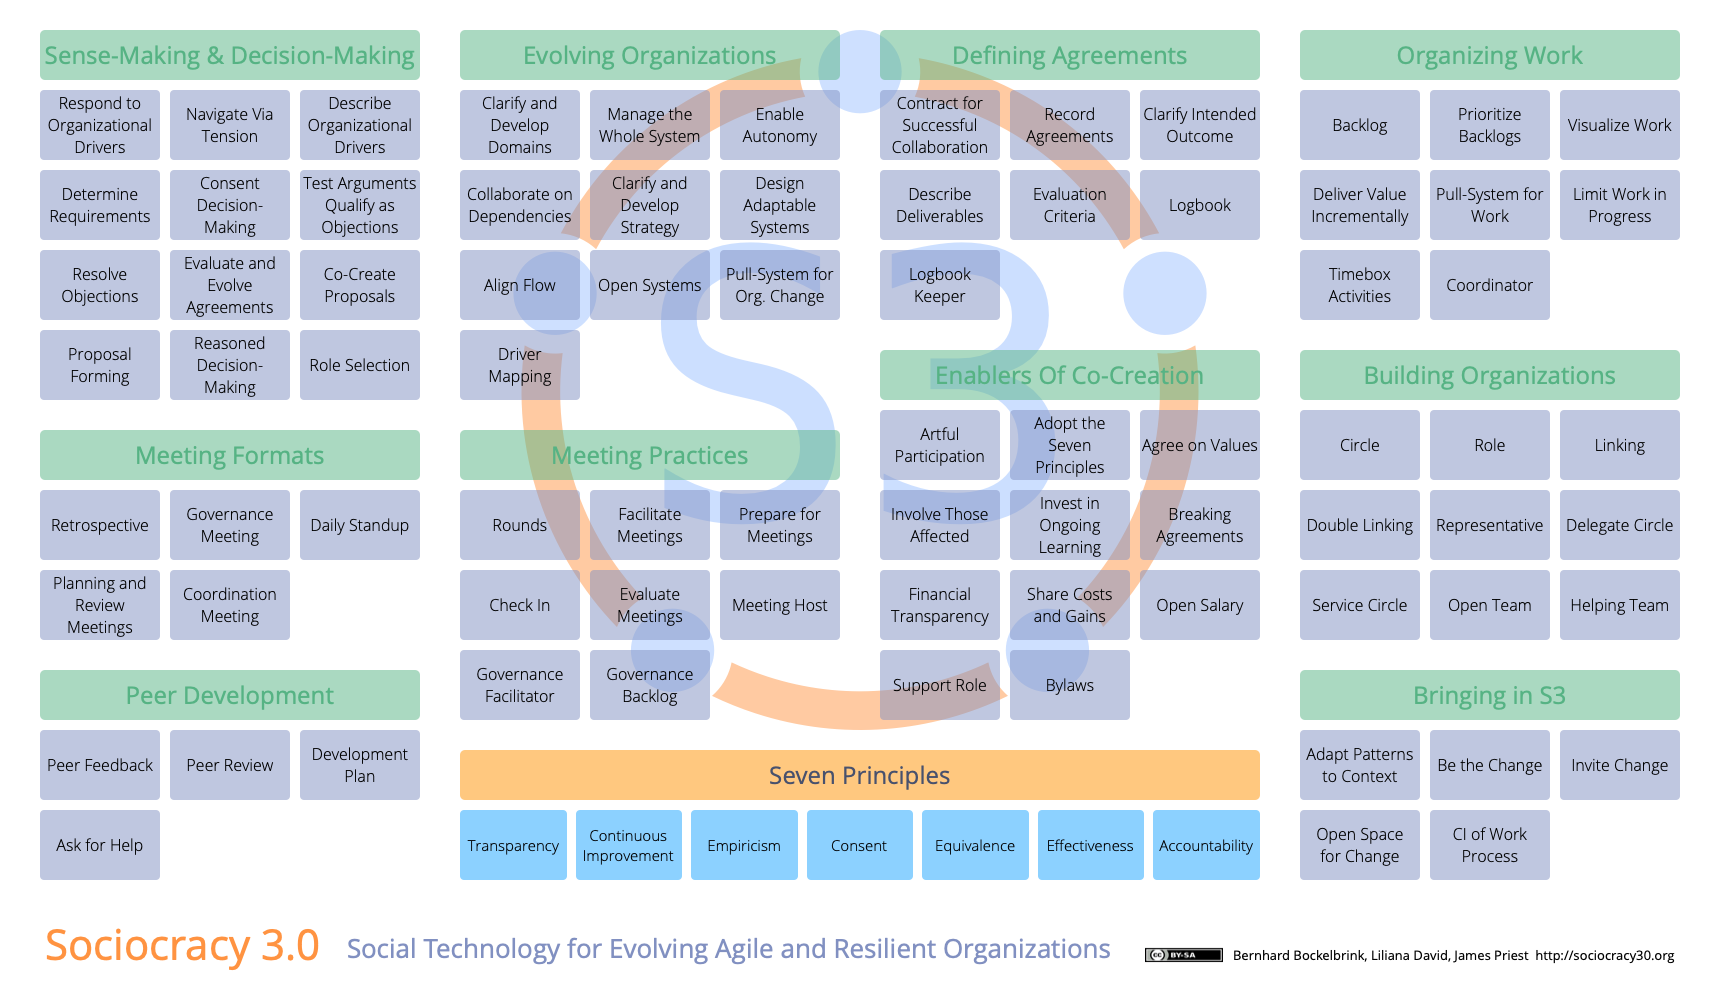
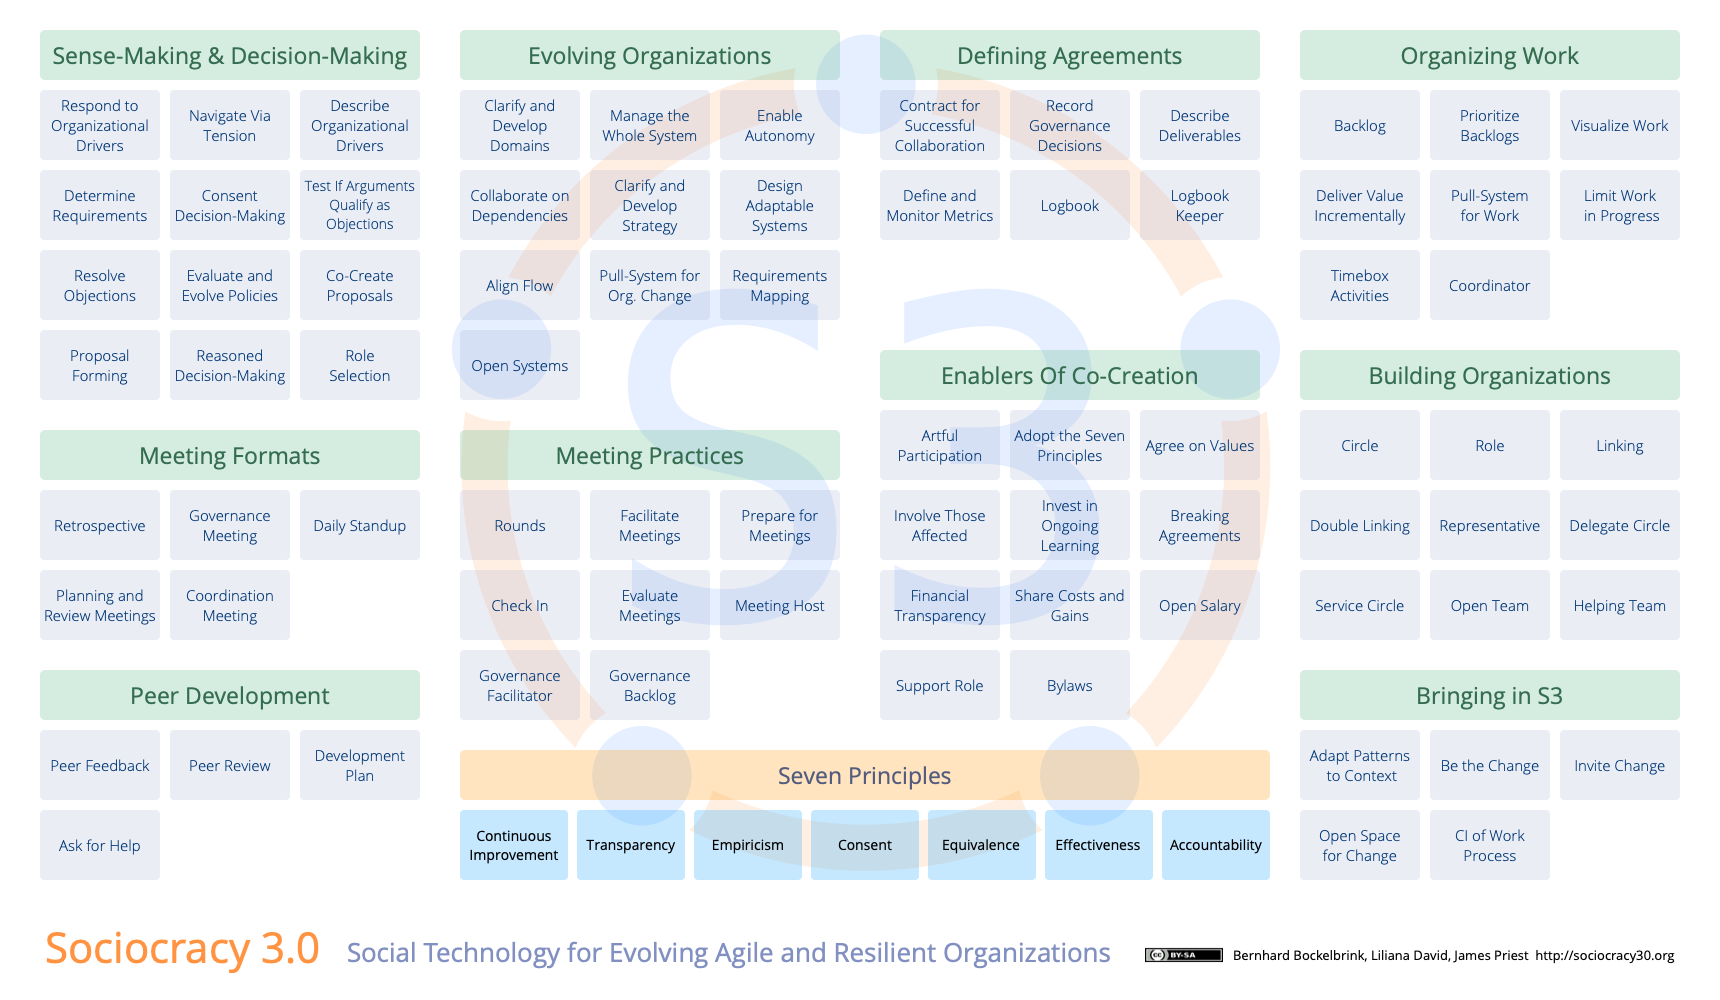
update pattern map

diff --git a/templates/website/pattern-map.html b/templates/website/pattern-map.html
@@ -5,35 +5,27 @@
 	<area shape=rect coords="590,90,710,160" href="https://${microsite_cname}/manage-the-whole-system.html">
 	<area shape=rect coords="460,30,840,80" href="https://${microsite_cname}/evolving-organizations.html">
 	<area shape=rect coords="460,250,580,320" href="https://${microsite_cname}/align-flow.html">
-	<area shape=rect coords="720,250,840,320" href="https://${microsite_cname}/create-a-pull-system-for-organizational-change.html">
-	<area shape=rect coords="460,330,580,400" href="https://${microsite_cname}/driver-mapping.html">
-	<area shape=rect coords="590,250,710,320" href="https://${microsite_cname}/open-systems.html">
+	<area shape=rect coords="590,250,710,320" href="https://${microsite_cname}/create-a-pull-system-for-organizational-change.html">
+	<area shape=rect coords="720,250,840,320" href="https://${microsite_cname}/requirements-mapping.html">
+	<area shape=rect coords="460,330,580,400" href="https://${microsite_cname}/open-systems.html">
 	<area shape=rect coords="460,90,580,160" href="https://${microsite_cname}/clarify-and-develop-domains.html">
 	<area shape=rect coords="590,170,710,240" href="https://${microsite_cname}/clarify-and-develop-strategy.html">
 	<area shape=rect coords="880,570,1000,640" href="https://${microsite_cname}/financial-transparency.html">
-	<area shape=rect coords="1010,490,1130,560" href="https://${microsite_cname}/invest-in-ongoing-learning.html">
 	<area shape=rect coords="1010,570,1130,640" href="https://${microsite_cname}/share-costs-and-gains.html">
+	<area shape=rect coords="1140,570,1260,640" href="https://${microsite_cname}/open-salary.html">
+	<area shape=rect coords="1010,490,1130,560" href="https://${microsite_cname}/invest-in-ongoing-learning.html">
 	<area shape=rect coords="880,490,1000,560" href="https://${microsite_cname}/involve-those-affected.html">
 	<area shape=rect coords="880,650,1000,720" href="https://${microsite_cname}/support-role.html">
 	<area shape=rect coords="1140,490,1260,560" href="https://${microsite_cname}/breaking-agreements.html">
-	<area shape=rect coords="1140,570,1260,640" href="https://${microsite_cname}/open-salary.html">
 	<area shape=rect coords="1010,650,1130,720" href="https://${microsite_cname}/bylaws.html">
 	<area shape=rect coords="1140,410,1260,480" href="https://${microsite_cname}/agree-on-values.html">
 	<area shape=rect coords="1010,410,1130,480" href="https://${microsite_cname}/adopt-the-seven-principles.html">
 	<area shape=rect coords="880,410,1000,480" href="https://${microsite_cname}/artful-participation.html">
 	<area shape=rect coords="880,350,1260,400" href="https://${microsite_cname}/enablers-of-co-creation.html">
-	<area shape=rect coords="880,90,1000,160" href="https://${microsite_cname}/contract-for-successful-collaboration.html">
-	<area shape=rect coords="880,170,1000,240" href="https://${microsite_cname}/describe-deliverables.html">
-	<area shape=rect coords="1010,170,1130,240" href="https://${microsite_cname}/define-and-monitor-metrics.html">
-	<area shape=rect coords="1140,90,1260,160" href="https://${microsite_cname}/clarify-intended-outcome.html">
-	<area shape=rect coords="880,250,1000,320" href="https://${microsite_cname}/logbook-keeper.html">
-	<area shape=rect coords="1140,170,1260,240" href="https://${microsite_cname}/logbook.html">
-	<area shape=rect coords="1010,90,1130,160" href="https://${microsite_cname}/record-governance-agreements.html">
-	<area shape=rect coords="880,30,1260,80" href="https://${microsite_cname}/defining-agreements.html">
+	<area shape=rect coords="1560,170,1680,240" href="https://${microsite_cname}/limit-work-in-progress.html">
 	<area shape=rect coords="1300,170,1420,240" href="https://${microsite_cname}/deliver-value-incrementally.html">
 	<area shape=rect coords="1300,250,1420,320" href="https://${microsite_cname}/timebox-activities.html">
 	<area shape=rect coords="1430,250,1550,320" href="https://${microsite_cname}/coordinator.html">
-	<area shape=rect coords="1560,170,1680,240" href="https://${microsite_cname}/limit-work-in-progress.html">
 	<area shape=rect coords="1430,170,1550,240" href="https://${microsite_cname}/pull-system-for-work.html">
 	<area shape=rect coords="1430,90,1550,160" href="https://${microsite_cname}/prioritize-backlogs.html">
 	<area shape=rect coords="1300,90,1420,160" href="https://${microsite_cname}/backlog.html">
@@ -44,9 +36,9 @@
 	<area shape=rect coords="170,330,290,400" href="https://${microsite_cname}/reasoned-decision-making.html">
 	<area shape=rect coords="40,330,160,400" href="https://${microsite_cname}/proposal-forming.html">
 	<area shape=rect coords="300,330,420,400" href="https://${microsite_cname}/role-selection.html">
-	<area shape=rect coords="170,250,290,320" href="https://${microsite_cname}/evaluate-and-evolve-agreements.html">
+	<area shape=rect coords="170,250,290,320" href="https://${microsite_cname}/evaluate-and-evolve-policies.html">
 	<area shape=rect coords="40,250,160,320" href="https://${microsite_cname}/resolve-objections.html">
-	<area shape=rect coords="40,170,160,240" href="https://${microsite_cname}/determine-requirements.html">
+	<area shape=rect coords="40,170,160,240" href="https://${microsite_cname}/determine-requirement.html">
 	<area shape=rect coords="300,250,420,320" href="https://${microsite_cname}/co-create-proposals.html">
 	<area shape=rect coords="170,90,290,160" href="https://${microsite_cname}/navigate-via-tension.html">
 	<area shape=rect coords="300,170,420,240" href="https://${microsite_cname}/test-arguments-qualify-as-objections.html">
@@ -71,20 +63,27 @@
 	<area shape=rect coords="1560,410,1680,480" href="https://${microsite_cname}/linking.html">
 	<area shape=rect coords="1430,410,1550,480" href="https://${microsite_cname}/role.html">
 	<area shape=rect coords="1300,410,1420,480" href="https://${microsite_cname}/circle.html">
+	<area shape=rect coords="880,90,1000,160" href="https://${microsite_cname}/contract-for-successful-collaboration.html">
+	<area shape=rect coords="1140,90,1260,160" href="https://${microsite_cname}/describe-deliverables.html">
+	<area shape=rect coords="880,170,1000,240" href="https://${microsite_cname}/define-and-monitor-metrics.html">
+	<area shape=rect coords="1140,170,1260,240" href="https://${microsite_cname}/logbook-keeper.html">
+	<area shape=rect coords="1010,170,1130,240" href="https://${microsite_cname}/logbook.html">
+	<area shape=rect coords="1010,90,1130,160" href="https://${microsite_cname}/record-governance-decisions.html">
+	<area shape=rect coords="880,30,1260,80" href="https://${microsite_cname}/defining-agreements.html">
 	<area shape=rect coords="1300,670,1680,720" href="https://${microsite_cname}/bringing-in-s3.html">
 	<area shape=rect coords="1300,810,1420,880" href="https://${microsite_cname}/open-space-for-change.html">
 	<area shape=rect coords="1560,730,1680,800" href="https://${microsite_cname}/invite-change.html">
 	<area shape=rect coords="1430,810,1550,880" href="https://${microsite_cname}/continuous-improvement-of-work-process.html">
 	<area shape=rect coords="1300,730,1420,800" href="https://${microsite_cname}/adapt-patterns-to-context.html">
 	<area shape=rect coords="1430,730,1550,800" href="https://${microsite_cname}/be-the-change.html">
-	<area shape=rect coords="460,750,1260,800" href="https://${microsite_cname}/principles.html">
-	<area shape=rect coords="575,810,682,880" href="https://${microsite_cname}/principle-continuous-improvement.html">
-	<area shape=rect coords="1153,810,1260,880" href="https://${microsite_cname}/principle-accountability.html">
-	<area shape=rect coords="460,810,566,880" href="https://${microsite_cname}/principle-transparency.html">
-	<area shape=rect coords="806,810,913,880" href="https://${microsite_cname}/principle-consent.html">
-	<area shape=rect coords="1037,810,1144,880" href="https://${microsite_cname}/principle-effectiveness.html">
-	<area shape=rect coords="922,810,1028,880" href="https://${microsite_cname}/principle-equivalence.html">
-	<area shape=rect coords="691,810,797,880" href="https://${microsite_cname}/principle-empiricism.html">
+	<area shape=rect coords="460,750,1270,800" href="https://${microsite_cname}/principles.html">
+	<area shape=rect coords="460,810,568,880" href="https://${microsite_cname}/principle-continuous-improvement.html">
+	<area shape=rect coords="1162,810,1270,880" href="https://${microsite_cname}/principle-accountability.html">
+	<area shape=rect coords="577,810,685,880" href="https://${microsite_cname}/principle-transparency.html">
+	<area shape=rect coords="811,810,919,880" href="https://${microsite_cname}/principle-consent.html">
+	<area shape=rect coords="1044,810,1152,880" href="https://${microsite_cname}/principle-effectiveness.html">
+	<area shape=rect coords="927,810,1036,880" href="https://${microsite_cname}/principle-equivalence.html">
+	<area shape=rect coords="694,810,802,880" href="https://${microsite_cname}/principle-empiricism.html">
 	<area shape=rect coords="170,570,290,640" href="https://${microsite_cname}/coordination-meeting.html">
 	<area shape=rect coords="40,570,160,640" href="https://${microsite_cname}/planning-and-review-meetings.html">
 	<area shape=rect coords="300,490,420,560" href="https://${microsite_cname}/daily-standup.html">
